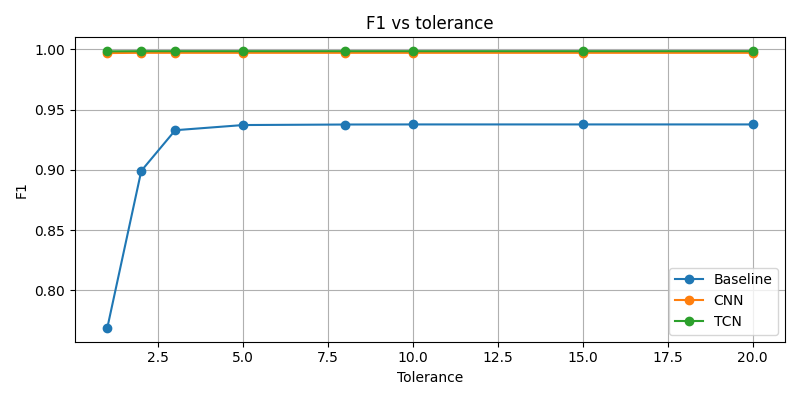
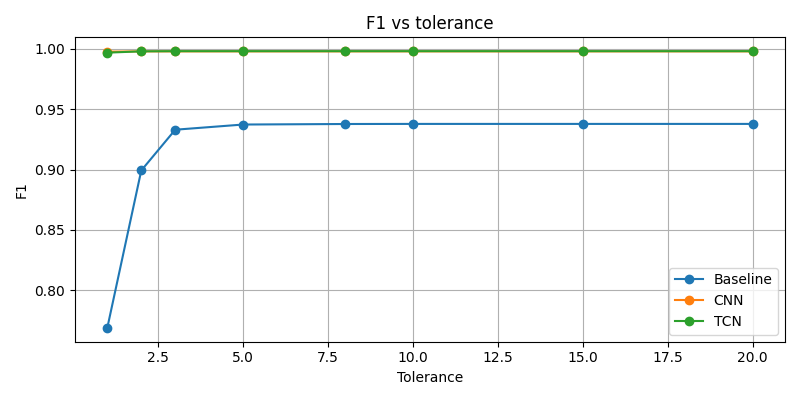
Results updated, commands.md added

diff --git a/COMMANDS.md b/COMMANDS.md
@@ -1,0 +1,152 @@
+# Axle Detection — Command Reference
+
+All commands are run from `D:\Thesis`. Open a terminal there first:
+```
+cd D:\Thesis
+```
+
+---
+
+## One-time setup (first time only)
+
+```powershell
+# Create the virtual environment and install all packages
+.\setup_env.ps1
+```
+
+---
+
+## Training
+
+### Start a fresh training run
+
+```powershell
+# Train TCN (recommended — best results)
+python scripts\run_training.py --model tcn
+
+# Train CNN
+python scripts\run_training.py --model cnn
+
+# Train both sequentially (CNN first, then TCN)
+python scripts\run_training.py --model both
+```
+
+### Recommended full runs (what the thesis uses)
+
+```powershell
+# TCN — give it room to converge (takes ~3-4 hours)
+python scripts\run_training.py --model tcn --epochs 100 --patience 25
+
+# CNN — it converges fast, 50 epochs is enough
+python scripts\run_training.py --model cnn --epochs 50 --patience 20
+```
+
+### Resume after a crash or cancellation
+
+```powershell
+# Picks up from the last saved checkpoint, keeps the log
+python scripts\run_training.py --model tcn --resume --epochs 100 --patience 25
+python scripts\run_training.py --model cnn --resume --epochs 50 --patience 20
+```
+
+### Run in a separate window (survives terminal close)
+
+```powershell
+Start-Process powershell -ArgumentList '-NoExit', '-Command', `
+  'cd D:\Thesis; $env:PYTHONPATH="D:\Thesis"; python scripts\run_training.py --model tcn --epochs 100 --patience 25'
+```
+
+### All training flags
+
+| Flag | Default | Meaning |
+|---|---|---|
+| `--model` | `tcn` | Which model: `cnn`, `tcn`, or `both` |
+| `--epochs` | `50` | How many epochs to run |
+| `--lr` | `0.001` | Learning rate (try `1e-4` for fine-tuning) |
+| `--batch_size` | `64` | Samples per batch |
+| `--patience` | `10` | Stop early if F1 doesn't improve for this many epochs |
+| `--resume` | off | Continue from saved checkpoint instead of starting fresh |
+| `--seed` | `42` | Random seed (change for reproducibility experiments) |
+
+---
+
+## Monitoring (open in a second terminal while training runs)
+
+```powershell
+# Watch both models
+.venv\Scripts\python.exe scripts\watch_training.py
+
+# Watch one model
+.venv\Scripts\python.exe scripts\watch_training.py --model tcn
+
+# Match your epoch count so the progress bar is correct
+.venv\Scripts\python.exe scripts\watch_training.py --model tcn --epochs 100
+
+# Change refresh rate (default 10 seconds)
+.venv\Scripts\python.exe scripts\watch_training.py --interval 5
+```
+
+---
+
+## Evaluation & comparison
+
+```powershell
+# Run full test-set evaluation: Baseline vs CNN vs TCN
+# Outputs results to console + saves plots to outputs/
+$env:PYTHONPATH = "D:\Thesis"; .venv\Scripts\python.exe scripts\compare.py
+```
+
+Output files saved to `outputs/`:
+- `comparison_bar.png` — Precision / Recall / F1 / MATE bar chart
+- `f1_vs_tolerance.png` — F1 score across different timing tolerances
+- `training_curves.png` — Loss and F1 over epochs
+
+---
+
+## Inspect checkpoints
+
+```powershell
+# See what's saved
+Get-ChildItem D:\Thesis\checkpoints\
+
+# Check best epoch and F1 stored in a checkpoint
+cmd /c "cd /d D:\Thesis && .venv\Scripts\python.exe -c ""import torch; c=torch.load('checkpoints/tcn_best.pt',map_location='cpu',weights_only=False); print('epoch:', c['epoch'], '| val F1:', round(c['val_f1'],4))"""
+cmd /c "cd /d D:\Thesis && .venv\Scripts\python.exe -c ""import torch; c=torch.load('checkpoints/cnn_best.pt',map_location='cpu',weights_only=False); print('epoch:', c['epoch'], '| val F1:', round(c['val_f1'],4))"""
+
+# Read the training log CSV directly
+Get-Content D:\Thesis\checkpoints\tcn_log.csv
+Get-Content D:\Thesis\checkpoints\cnn_log.csv
+
+# Just the last 5 epochs
+Get-Content D:\Thesis\checkpoints\tcn_log.csv | Select-Object -Last 5
+```
+
+---
+
+## Typical workflow start-to-finish
+
+```powershell
+# 1. Start training in one terminal
+.venv\Scripts\python.exe scripts\run_training.py --model tcn --epochs 100 --patience 25
+
+# 2. Open a second terminal and watch it live
+.venv\Scripts\python.exe scripts\watch_training.py --model tcn --epochs 100
+
+# 3. After training finishes, run evaluation
+$env:PYTHONPATH = "D:\Thesis"; .venv\Scripts\python.exe scripts\compare.py
+
+# 4. Check results
+Get-Content D:\Thesis\outputs\eval_output.txt
+```
+
+---
+
+## Quick diagnostics
+
+```powershell
+# Check GPU is available
+cmd /c "cd /d D:\Thesis && .venv\Scripts\python.exe -c ""import torch; print('CUDA:', torch.cuda.is_available(), torch.cuda.get_device_name(0) if torch.cuda.is_available() else '')"""
+
+# Check all packages are installed
+.venv\Scripts\pip.exe list | Select-String "torch|numpy|scipy|scikit|tqdm|matplotlib|pandas"
+```